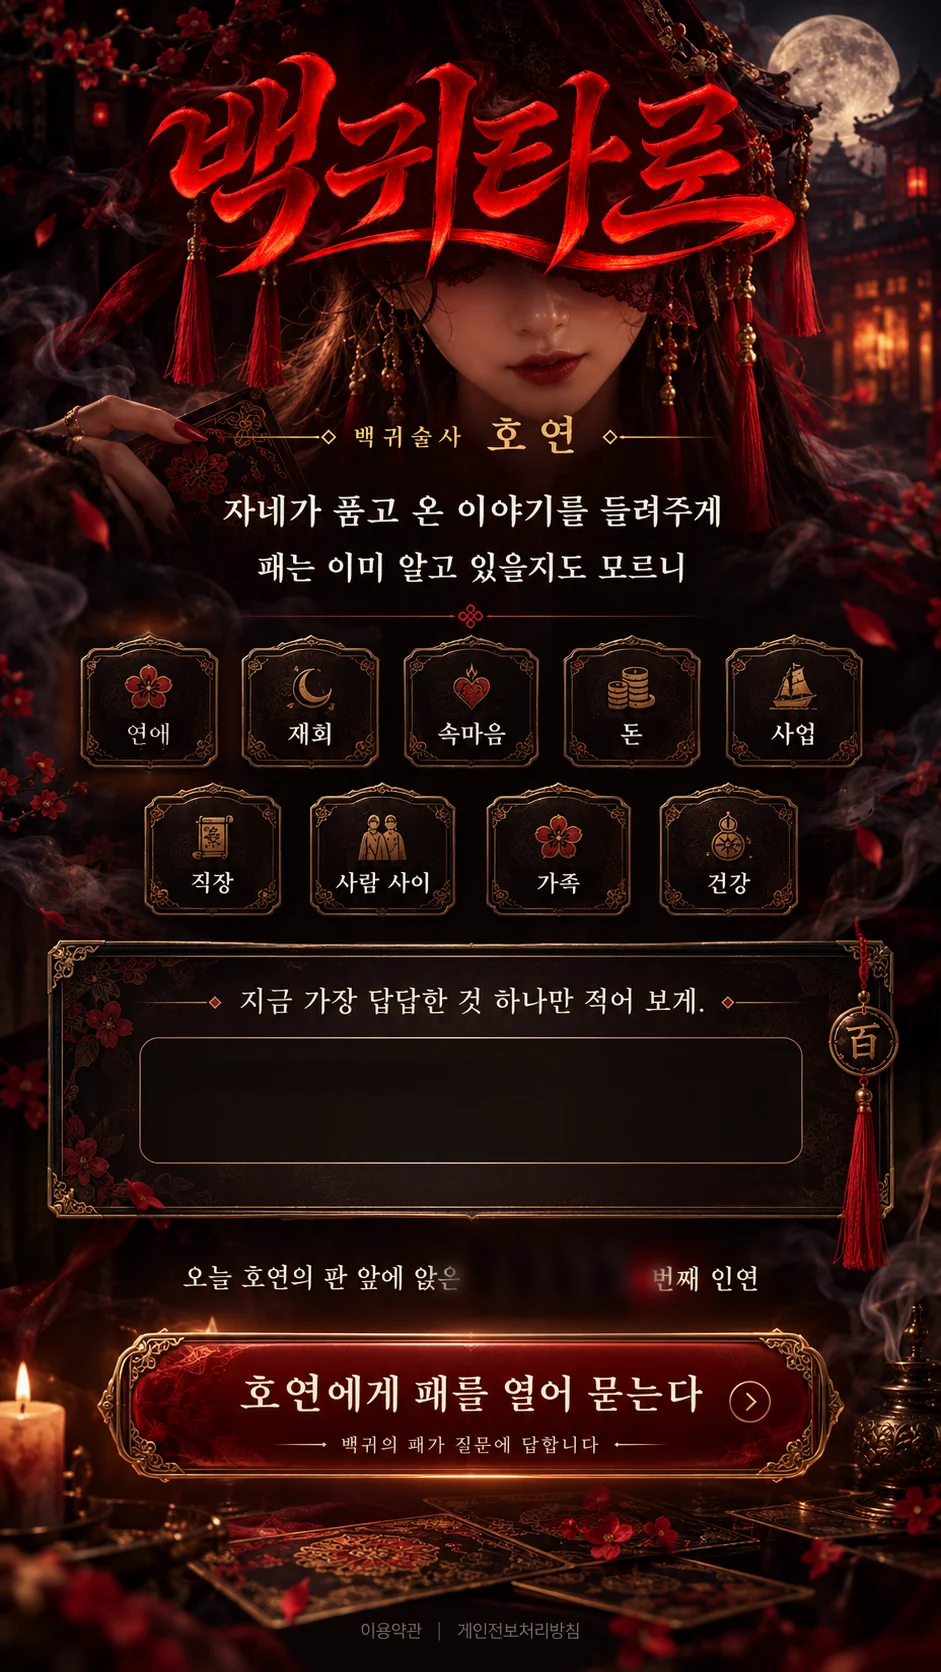
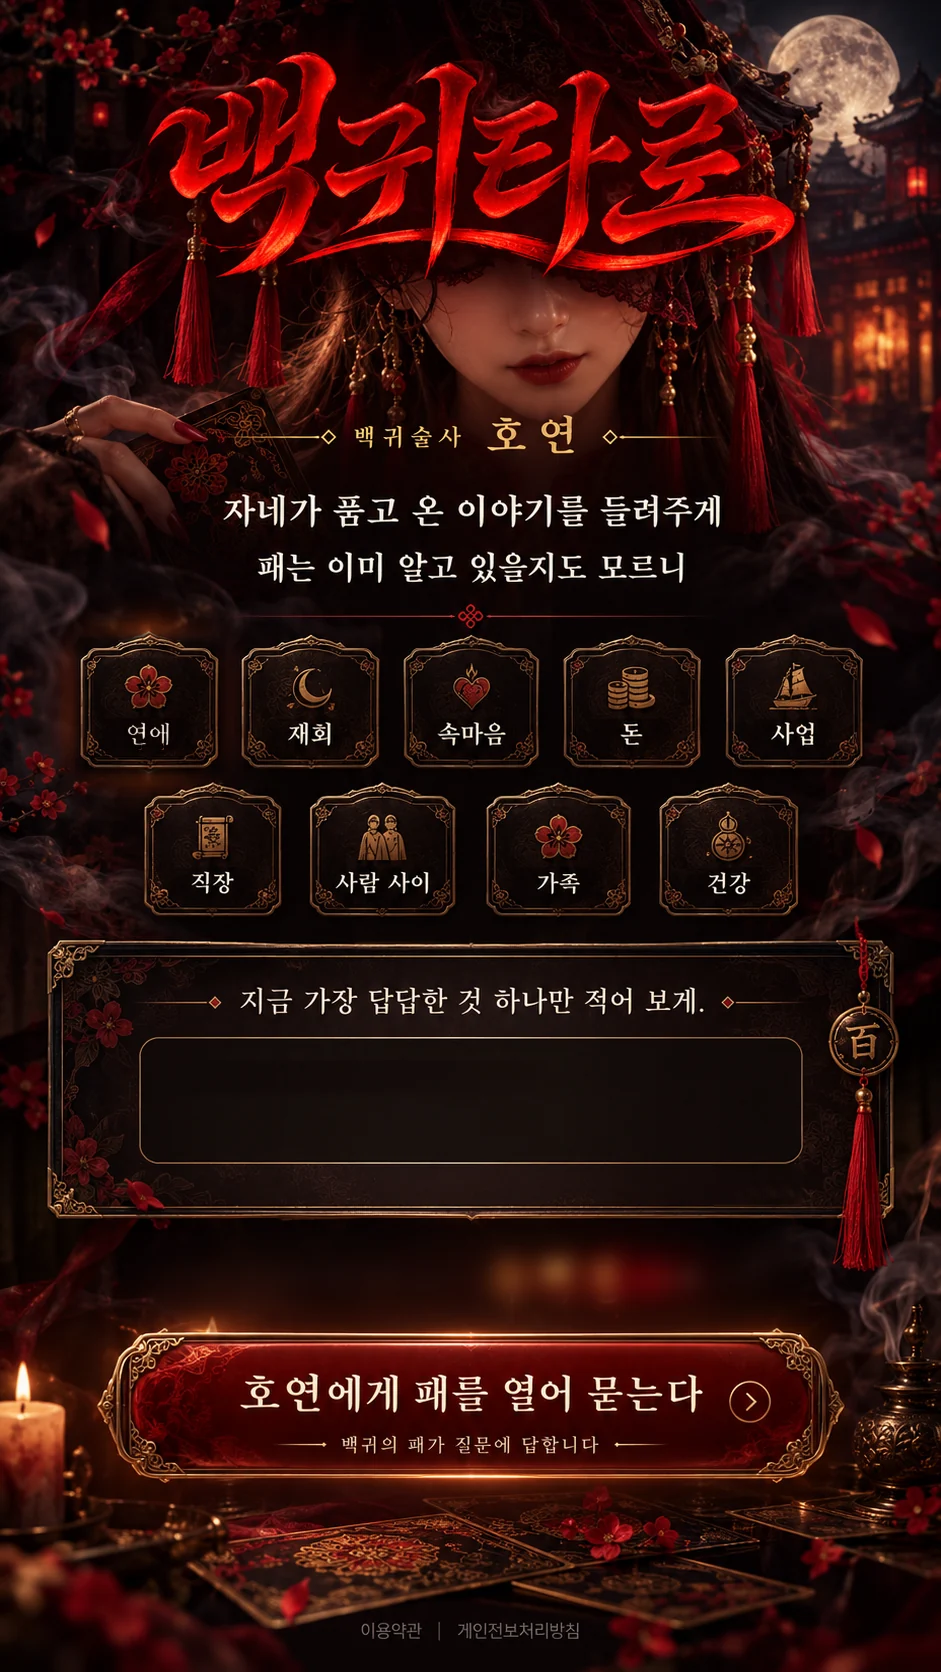
인연 줄의 글자가 잘리던 것을 바로잡다
'두백열'만 도려내다 보니 바로 옆 '앉은'의 끝 글자와 '번째' 앞머리까지
긁혀 나가고, 도려낸 자리가 거뭇한 띠로 남았다.

- 그 줄을 통째로 지웠다. 가운데값 거르개로 글자만 녹여 내니 바탕의
  불빛과 연기는 그대로 남고 이음매도 없네
- 지운 자리에 '오늘 호연의 판 앞에 앉은 N번째 인연'을 통째로 글로
  얹었다. 이제 잘릴 글자가 없고, 줄 전체가 함께 줄고 늘어난다
- 시안의 그 줄과 나란히 놓고 크기와 자리를 맞추었다

Claude-Session: https://claude.ai/code/session_012aTboCxUFgxPsHL44dQMhx

Changed region(s): [[0.1849, 0.7464, 0.8013, 0.8086]]

diff --git a/index.html b/index.html
@@ -63,9 +63,14 @@
 #s-ask .intro .count{position:absolute;right:15.6%;top:69.9%;margin:0;display:block;
   font-size:calc(var(--u)*22);letter-spacing:.02em;color:#8e8073;font-variant-numeric:tabular-nums}
 /* 오늘 앉은 인연 — 숫자만 그림 위에 얹는다 */
-#s-ask .intro .visit{position:absolute;left:58.5%;top:76.75%;transform:translate(-50%,-50%);
-  margin:0;white-space:nowrap;font-family:var(--serif);font-weight:700;font-size:calc(var(--u)*60);
-  letter-spacing:.05em;color:#fff3d6;opacity:0;transition:opacity 1.4s ease;
+/* 인연 줄 — 그림에서 통째로 지우고 글로 얹는다. 글자가 잘릴 일이 없네 */
+#s-ask .intro .visit{position:absolute;left:50%;top:76.4%;transform:translate(-50%,-50%);
+  margin:0;white-space:nowrap;display:flex;align-items:baseline;justify-content:center;
+  font-family:var(--serif);font-weight:500;font-size:calc(var(--u)*28);
+  letter-spacing:.02em;color:#efe3d2;opacity:0;transition:opacity 1.4s ease;
+  text-shadow:0 calc(var(--u)*2) calc(var(--u)*8) rgba(0,0,0,.95),0 0 calc(var(--u)*20) rgba(0,0,0,.8)}
+#s-ask .intro .visit b{display:inline;margin:0 calc(var(--u)*12);font-weight:700;
+  font-size:calc(var(--u)*58);letter-spacing:.015em;color:#fff3d6;
   text-shadow:0 0 calc(var(--u)*6) rgba(255,214,130,.95),
               0 0 calc(var(--u)*18) rgba(255,160,60,.8),
               0 0 calc(var(--u)*40) rgba(255,96,30,.55),
@@ -2007,7 +2012,7 @@ function wait(ms){return new Promise(r=>setTimeout(r,ms));}
   try{ n=parseInt(sessionStorage.getItem(K),10); }catch(e){}
   if(!(n>=MIN&&n<=MAX)){ n=MIN+Math.floor(Math.random()*(MAX-MIN+1)); try{ sessionStorage.setItem(K,String(n)); }catch(e){} }
   const el=document.getElementById("visit");
-  if(el){ el.innerHTML=document.getElementById("intro")?String(n):`오늘 호연의 판 앞에 앉은<b><i>${n}</i>번째 인연</b>`;
+  if(el){ el.innerHTML=`오늘 호연의 판 앞에 앉은<b>${n}</b>번째 인연`;
     setTimeout(()=>el.classList.add("on"),900); }
 })();
 function store(k,v){try{ if(v===undefined) return JSON.parse(localStorage.getItem(k)||"null"); localStorage.setItem(k,JSON.stringify(v)); }catch(e){ return null; }}
